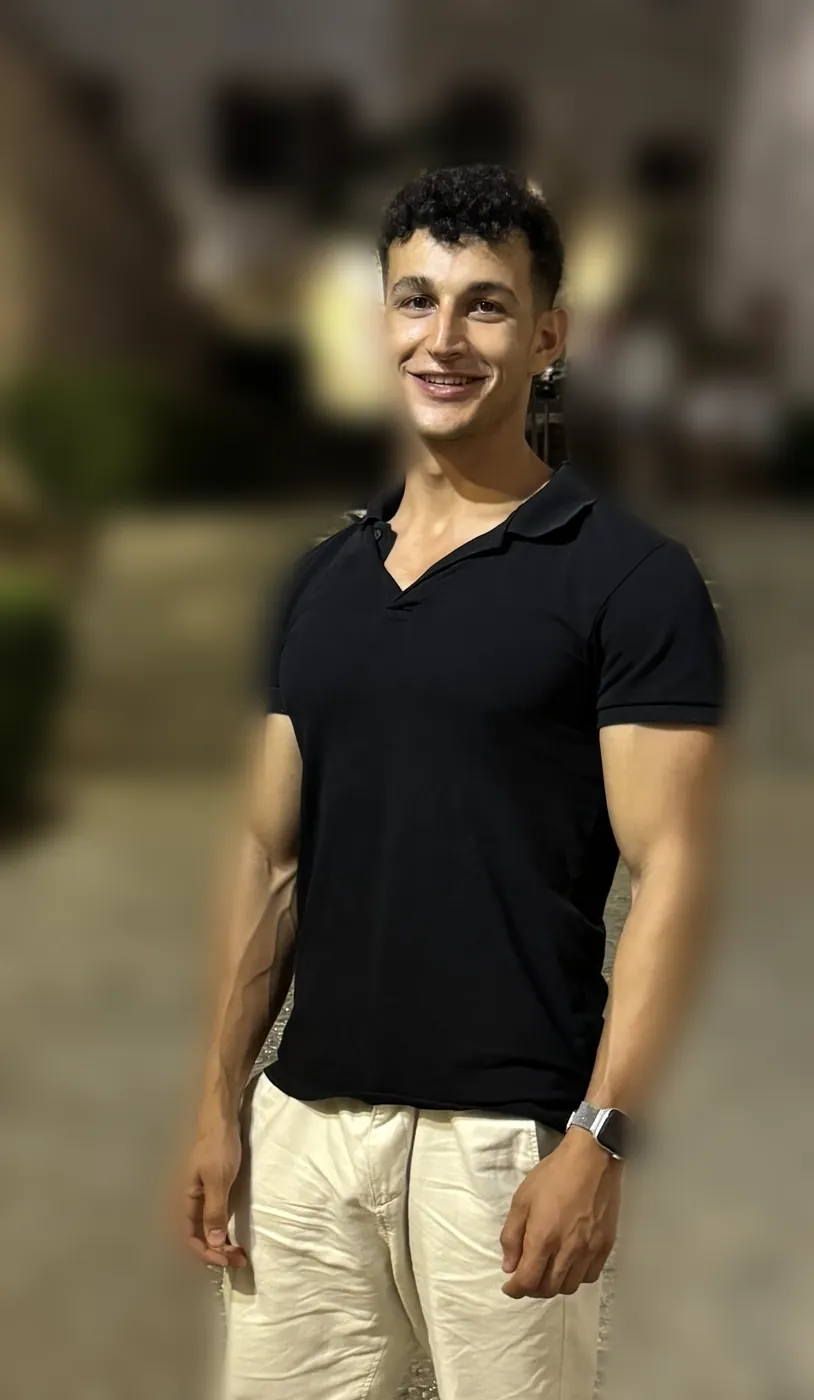
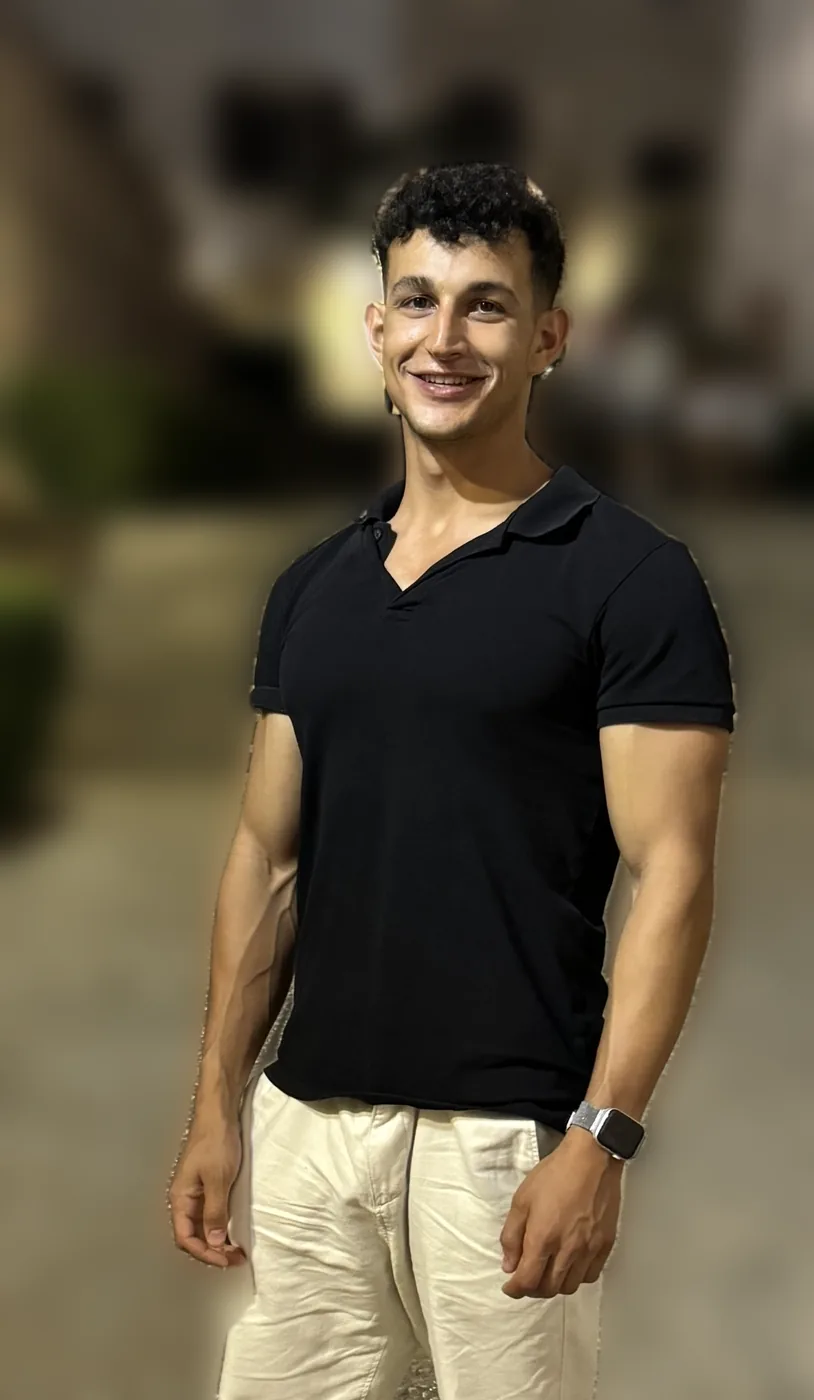
SEO/GEO: Titel, Meta, Canonical, Open Graph, Schema.org (Electrician, FAQPage), FAQ, llms.txt; Porträt sauber freigestellt
Claude-Session: https://claude.ai/code/session_01RFYJ6CRAPkTBaE4rEXmcSj

diff --git a/index.html b/index.html
@@ -3,8 +3,21 @@
 <head>
   <meta charset="utf-8">
   <meta name="viewport" content="width=device-width, initial-scale=1">
-  <title>Voltlogik UG – Elektrofachbetrieb für PV, Wärmepumpen & Elektroinstallation in Berlin & Brandenburg</title>
-  <meta name="description" content="Elektrofachbetrieb aus Oranienburg: PV-Anlagen, Speichererweiterung, Wärmepumpen-Anschluss, Anmeldung, Prüfung nach DIN VDE 0100-600 und Elektroinstallation in Berlin & Brandenburg.">
+  <title>Elektriker in Oranienburg – Wallbox, PV & Wärmepumpe | Voltlogik</title>
+  <meta name="description" content="Elektrofachbetrieb aus Oranienburg für Berlin & Brandenburg: Wallbox-Installation (11 & 22 kW), PV-Anlagen, Speicher, Wärmepumpen-Anschluss, Zählerschrank und VDE-Prüfung. Jetzt anfragen.">
+  <link rel="canonical" href="https://voltlogik.de/">
+  <meta name="robots" content="index, follow, max-image-preview:large">
+  <meta property="og:type" content="website">
+  <meta property="og:locale" content="de_DE">
+  <meta property="og:site_name" content="Voltlogik">
+  <meta property="og:title" content="Elektriker in Oranienburg – Wallbox, PV & Wärmepumpe | Voltlogik">
+  <meta property="og:description" content="Elektrofachbetrieb aus Oranienburg für Berlin & Brandenburg: Wallbox-Installation (11 & 22 kW), PV-Anlagen, Speicher, Wärmepumpen-Anschluss, Zählerschrank und VDE-Prüfung. Jetzt anfragen.">
+  <meta property="og:url" content="https://voltlogik.de/">
+  <meta property="og:image" content="https://voltlogik.de/img/fotos/foto2.webp">
+  <meta name="geo.region" content="DE-BB">
+  <meta name="geo.placename" content="Oranienburg">
+  <script type="application/ld+json">{"@context": "https://schema.org", "@type": "Electrician", "@id": "https://voltlogik.de/#betrieb", "name": "Voltlogik", "legalName": "VLT Voltlogik UG (haftungsbeschränkt)", "url": "https://voltlogik.de/", "logo": "https://voltlogik.de/img/voltlogik-logo.svg", "image": "https://voltlogik.de/img/fotos/foto2.webp", "telephone": "+4915162777020", "email": "kontakt@voltlogik.de", "slogan": "Ihr Partner für moderne Energielösungen.", "founder": {"@type": "Person", "name": "Daniel Beiersdorf", "jobTitle": "Geschäftsführer"}, "foundingDate": "2026-03", "address": {"@type": "PostalAddress", "addressLocality": "Oranienburg", "postalCode": "16515", "addressRegion": "Brandenburg", "addressCountry": "DE"}, "areaServed": [{"@type": "City", "name": "Oranienburg"}, {"@type": "City", "name": "Berlin"}, {"@type": "State", "name": "Brandenburg"}], "sameAs": ["https://www.my-hammer.de/auftragnehmer/vlt-voltlogik-ug"], "knowsAbout": ["Wallbox-Installation", "Photovoltaik", "Batteriespeicher", "Wärmepumpen-Anschluss", "Zählerschrank", "Unterverteilung", "SLS-Schalter", "Überspannungsschutz", "Prüfung nach DIN VDE 0100-600", "Elektroinstallation"], "hasOfferCatalog": {"@type": "OfferCatalog", "name": "Leistungen", "itemListElement": [{"@type": "Offer", "itemOffered": {"@type": "Service", "name": "Wallbox-Installation (11 kW & 22 kW)", "description": "Installation Ihrer E-Auto-Wallbox in 11- oder 22-kW-Ausführung. Wallboxen bis 11 kW sind beim Netzbetreiber meldepflichtig, 22-kW-Wallboxen brauchen vorher seine Zustimmung. Beides übernehmen wir für Sie."}}, {"@type": "Offer", "itemOffered": {"@type": "Service", "name": "PV-Anlagen komplett", "description": "Planung und Installation Ihrer Photovoltaikanlage, von der Montage bis zur Inbetriebnahme und Anmeldung."}}, {"@type": "Offer", "itemOffered": {"@type": "Service", "name": "PV-Teilinstallation (AC)", "description": "Sie haben die DC-Montage schon selbst erledigt? Wir übernehmen den AC-Anschluss, die Prüfung und die Anmeldung."}}, {"@type": "Offer", "itemOffered": {"@type": "Service", "name": "Speichererweiterung", "description": "Wir erweitern Ihre bestehende PV-Anlage um einen Batteriespeicher."}}, {"@type": "Offer", "itemOffered": {"@type": "Service", "name": "Wärmepumpen-Anschluss", "description": "Elektrischer Anschluss Ihrer Wärmepumpe, fachgerecht und inklusive Anmeldung beim Netzbetreiber."}}, {"@type": "Offer", "itemOffered": {"@type": "Service", "name": "Anmeldung & VDE-Prüfung", "description": "Anmeldung anmeldepflichtiger Geräte sowie Prüfung nach DIN VDE 0100-600 mit Prüfprotokoll."}}, {"@type": "Offer", "itemOffered": {"@type": "Service", "name": "Zählerschrank & Unterverteilung", "description": "Komplette Sanierung oder neuer Zählerschrank: Wir übernehmen die alten Stromkreise, setzen einen neuen Zählerschrank und nutzen den alten bei Bedarf als Unterverteilung weiter. Natürlich auch ganz normale Unterverteilungen."}}, {"@type": "Offer", "itemOffered": {"@type": "Service", "name": "SLS & Überspannungsschutz", "description": "Nachrüstung von SLS-Schaltern und Überspannungsschutz, wie es die Technischen Anschlussbedingungen (TAB) der meisten Netzbetreiber vorschreiben."}}, {"@type": "Offer", "itemOffered": {"@type": "Service", "name": "Fehlersuche & Reparaturen", "description": "Strom weg, Sicherung fliegt raus oder eine Steckdose ist defekt? Wir finden den Fehler und reparieren ihn in Ihrem Haushalt."}}, {"@type": "Offer", "itemOffered": {"@type": "Service", "name": "Elektroinstallation", "description": "Klassische Elektroarbeiten im Alt- und Neubau: Steckdosen, Leitungen, Erweiterungen und mehr."}}]}}</script>
+  <script type="application/ld+json">{"@context": "https://schema.org", "@type": "FAQPage", "mainEntity": [{"@type": "Question", "name": "In welchen Orten ist Voltlogik im Einsatz?", "acceptedAnswer": {"@type": "Answer", "text": "Wir sitzen in Oranienburg und arbeiten in Berlin und Brandenburg im Umkreis von rund 100 km, zum Beispiel in Hohen Neuendorf, Birkenwerder, Bernau bei Berlin, Panketal, Biesenthal, Kleinmachnow und Fürstenberg/Havel."}}, {"@type": "Question", "name": "Muss ich meine Wallbox beim Netzbetreiber anmelden?", "acceptedAnswer": {"@type": "Answer", "text": "Ja. Wallboxen bis 11 kW sind beim Netzbetreiber meldepflichtig. Wallboxen mit mehr als 11 kW, zum Beispiel 22 kW, brauchen vorher die Zustimmung des Netzbetreibers. Die Anmeldung übernehmen wir für Sie."}}, {"@type": "Question", "name": "Übernehmt ihr auch nur den AC-Anschluss meiner PV-Anlage?", "acceptedAnswer": {"@type": "Answer", "text": "Ja. Wenn Sie die DC-Montage selbst erledigt haben, übernehmen wir den AC-Anschluss, die Prüfung nach DIN VDE 0100-600 und die Anmeldung beim Netzbetreiber."}}, {"@type": "Question", "name": "Kann ich an meine bestehende PV-Anlage einen Speicher nachrüsten?", "acceptedAnswer": {"@type": "Answer", "text": "Ja. Wir erweitern bestehende PV-Anlagen um einen Batteriespeicher. Ob und wie das bei Ihrer Anlage geht, klären wir vorab mit Ihnen."}}, {"@type": "Question", "name": "Brauche ich einen SLS-Schalter und Überspannungsschutz?", "acceptedAnswer": {"@type": "Answer", "text": "Die Technischen Anschlussbedingungen (TAB) der meisten Netzbetreiber schreiben das vor. Ob bei Ihnen nachgerüstet werden muss, prüfen wir vor Ort."}}, {"@type": "Question", "name": "Wie stelle ich eine Anfrage?", "acceptedAnswer": {"@type": "Answer", "text": "Am einfachsten per Telefon, WhatsApp oder E-Mail an kontakt@voltlogik.de. Nennen Sie uns kurz Ort und Vorhaben und schicken Sie gerne ein paar Fotos vom Zählerschrank mit."}}]}</script>
   <link rel="stylesheet" href="css/style.css">
   <link rel="icon" href="img/favicon.svg" type="image/svg+xml">
   <link rel="preload" href="fonts/poppins-latin-800-normal.woff2" as="font" type="font/woff2" crossorigin>
@@ -36,6 +49,7 @@
 </div></div></section>
 <section><div class="wrap two"><div><span class="claim grad">Über Voltlogik</span><h2>Ihr Elektriker aus Oranienburg</h2><p>Ich bin Daniel Beiersdorf, Meister und Geschäftsführer von Voltlogik. Ich nehme mir für jeden Auftrag die Zeit, die er braucht, denn bei Strom zählen Sicherheit und Zuverlässigkeit.</p><a class="btn ghost" href="ueber-uns.html">Mehr über uns</a></div><img class="photo" src="img/fotos/foto2.webp" alt="Daniel Beiersdorf mit Werkzeugtasche am Voltlogik-Firmenwagen" width="1600" height="1018" loading="lazy"></div></section>
 <section><div class="wrap"><h2>Das sagen unsere Kunden</h2><p class="lead">Bewertungen von MyHammer.</p><div class="grid"><figure class="card review"><span class="stars" aria-label="5 von 5 Sternen">★★★★★<span class="off"></span></span><blockquote>„Entspricht einfach alle Erwartungen und hebt sich von der Masse komplett ab, hält sich an absprachen und gibt Ideen und Tipps, die er auch umsetzen kann. Für jede Angelegenheit würde ich seine Leistung jederzeit in Anspruch nehmen.“</blockquote><figcaption><strong>L., Oranienburg</strong><span>Solaranlage anschließen · Sep 2026 · via MyHammer</span></figcaption></figure><figure class="card review"><span class="stars" aria-label="5 von 5 Sternen">★★★★★<span class="off"></span></span><blockquote>„Zuverlässige Arbeit. Alle Absprachen eingehalten, klare Kommunikation, verlässlich in Terminen. Jederzeit gerne wieder!“</blockquote><figcaption><strong>V., Berlin</strong><span>Wallbox / Ladestation · Sep 2026 · via MyHammer</span></figcaption></figure><figure class="card review"><span class="stars" aria-label="5 von 5 Sternen">★★★★★<span class="off"></span></span><blockquote>„Ich bin sehr zufrieden. Daniel hat meine Erwartungen vollständig erfüllt und wird von mir sehr gerne meinem Freundeskreis empfohlen.“</blockquote><figcaption><strong>S., Biesenthal</strong><span>Wallbox / Ladestation · Apr 2026 · via MyHammer</span></figcaption></figure></div><p class="mt"><a class="btn" href="referenzen.html">Alle Bewertungen lesen</a></p></div></section>
+<section class="alt"><div class="wrap narrow"><h2>Häufige Fragen</h2><p class="lead">Kurz beantwortet.</p><details class="faq"><summary>In welchen Orten ist Voltlogik im Einsatz?</summary><p>Wir sitzen in Oranienburg und arbeiten in Berlin und Brandenburg im Umkreis von rund 100 km, zum Beispiel in Hohen Neuendorf, Birkenwerder, Bernau bei Berlin, Panketal, Biesenthal, Kleinmachnow und Fürstenberg/Havel.</p></details><details class="faq"><summary>Muss ich meine Wallbox beim Netzbetreiber anmelden?</summary><p>Ja. Wallboxen bis 11 kW sind beim Netzbetreiber meldepflichtig. Wallboxen mit mehr als 11 kW, zum Beispiel 22 kW, brauchen vorher die Zustimmung des Netzbetreibers. Die Anmeldung übernehmen wir für Sie.</p></details><details class="faq"><summary>Übernehmt ihr auch nur den AC-Anschluss meiner PV-Anlage?</summary><p>Ja. Wenn Sie die DC-Montage selbst erledigt haben, übernehmen wir den AC-Anschluss, die Prüfung nach DIN VDE 0100-600 und die Anmeldung beim Netzbetreiber.</p></details><details class="faq"><summary>Kann ich an meine bestehende PV-Anlage einen Speicher nachrüsten?</summary><p>Ja. Wir erweitern bestehende PV-Anlagen um einen Batteriespeicher. Ob und wie das bei Ihrer Anlage geht, klären wir vorab mit Ihnen.</p></details><details class="faq"><summary>Brauche ich einen SLS-Schalter und Überspannungsschutz?</summary><p>Die Technischen Anschlussbedingungen (TAB) der meisten Netzbetreiber schreiben das vor. Ob bei Ihnen nachgerüstet werden muss, prüfen wir vor Ort.</p></details><details class="faq"><summary>Wie stelle ich eine Anfrage?</summary><p>Am einfachsten per Telefon, WhatsApp oder E-Mail an kontakt@voltlogik.de. Nennen Sie uns kurz Ort und Vorhaben und schicken Sie gerne ein paar Fotos vom Zählerschrank mit.</p></details></div></section>
 <section class="contact"><div class="wrap cta-band"><div><h2>Bereit für Ihr Projekt?</h2><p class="lead">Schildern Sie uns kurz Ihr Vorhaben. Wir melden uns zeitnah.</p></div><div class="ctas"><a class="btn" href="kontakt.html">Jetzt Anfrage stellen</a><a class="btn wa" href="https://wa.me/message/XTBNEGVWKSSOC1" target="_blank" rel="noopener"><svg class="wa-ic" viewBox="0 0 32 32" aria-hidden="true"><path fill="currentColor" d="M16 3a13 13 0 0 0-11.2 19.6L3 29l6.6-1.7A13 13 0 1 0 16 3zm0 23.6a10.6 10.6 0 0 1-5.4-1.5l-.4-.2-3.9 1 1-3.8-.2-.4A10.6 10.6 0 1 1 16 26.6zm5.8-7.9c-.3-.2-1.9-.9-2.2-1s-.5-.2-.7.2-.8 1-1 1.2-.4.2-.7.1a8.7 8.7 0 0 1-4.3-3.8c-.3-.6.3-.5.9-1.7.1-.2 0-.4 0-.5l-1-2.4c-.3-.6-.5-.5-.7-.5h-.6a1.2 1.2 0 0 0-.9.4 3.6 3.6 0 0 0-1.1 2.7 6.3 6.3 0 0 0 1.3 3.3 14.4 14.4 0 0 0 5.5 4.9c2 .9 2.9 1 3.9.8a3.3 3.3 0 0 0 2.2-1.5 2.7 2.7 0 0 0 .2-1.5c-.1-.2-.3-.3-.6-.4z"/></svg>Per WhatsApp schreiben</a></div></div></section>
 </main>
 <footer>

diff --git a/leistungen.html b/leistungen.html
@@ -3,8 +3,20 @@
 <head>
   <meta charset="utf-8">
   <meta name="viewport" content="width=device-width, initial-scale=1">
-  <title>Leistungen – Voltlogik UG</title>
-  <meta name="description" content="PV-Anlagen, AC-Teilinstallation, Speichererweiterung, Wärmepumpen-Anschluss, Anmeldung, VDE-Prüfung und Elektroinstallation in Berlin & Brandenburg.">
+  <title>Leistungen: Wallbox, PV, Speicher, Wärmepumpe & Zählerschrank | Voltlogik Oranienburg</title>
+  <meta name="description" content="Wallbox-Installation 11 & 22 kW, PV-Anlagen, AC-Teilinstallation, Speicher, Wärmepumpen-Anschluss, Zählerschrank, SLS & Überspannungsschutz, Fehlersuche und Elektroinstallation in Oranienburg, Berlin & Brandenburg.">
+  <link rel="canonical" href="https://voltlogik.de/leistungen.html">
+  <meta name="robots" content="index, follow, max-image-preview:large">
+  <meta property="og:type" content="website">
+  <meta property="og:locale" content="de_DE">
+  <meta property="og:site_name" content="Voltlogik">
+  <meta property="og:title" content="Leistungen: Wallbox, PV, Speicher, Wärmepumpe & Zählerschrank | Voltlogik Oranienburg">
+  <meta property="og:description" content="Wallbox-Installation 11 & 22 kW, PV-Anlagen, AC-Teilinstallation, Speicher, Wärmepumpen-Anschluss, Zählerschrank, SLS & Überspannungsschutz, Fehlersuche und Elektroinstallation in Oranienburg, Berlin & Brandenburg.">
+  <meta property="og:url" content="https://voltlogik.de/leistungen.html">
+  <meta property="og:image" content="https://voltlogik.de/img/fotos/foto2.webp">
+  <meta name="geo.region" content="DE-BB">
+  <meta name="geo.placename" content="Oranienburg">
+  <script type="application/ld+json">{"@context": "https://schema.org", "@type": "Electrician", "@id": "https://voltlogik.de/#betrieb", "name": "Voltlogik", "legalName": "VLT Voltlogik UG (haftungsbeschränkt)", "url": "https://voltlogik.de/", "logo": "https://voltlogik.de/img/voltlogik-logo.svg", "image": "https://voltlogik.de/img/fotos/foto2.webp", "telephone": "+4915162777020", "email": "kontakt@voltlogik.de", "slogan": "Ihr Partner für moderne Energielösungen.", "founder": {"@type": "Person", "name": "Daniel Beiersdorf", "jobTitle": "Geschäftsführer"}, "foundingDate": "2026-03", "address": {"@type": "PostalAddress", "addressLocality": "Oranienburg", "postalCode": "16515", "addressRegion": "Brandenburg", "addressCountry": "DE"}, "areaServed": [{"@type": "City", "name": "Oranienburg"}, {"@type": "City", "name": "Berlin"}, {"@type": "State", "name": "Brandenburg"}], "sameAs": ["https://www.my-hammer.de/auftragnehmer/vlt-voltlogik-ug"], "knowsAbout": ["Wallbox-Installation", "Photovoltaik", "Batteriespeicher", "Wärmepumpen-Anschluss", "Zählerschrank", "Unterverteilung", "SLS-Schalter", "Überspannungsschutz", "Prüfung nach DIN VDE 0100-600", "Elektroinstallation"], "hasOfferCatalog": {"@type": "OfferCatalog", "name": "Leistungen", "itemListElement": [{"@type": "Offer", "itemOffered": {"@type": "Service", "name": "Wallbox-Installation (11 kW & 22 kW)", "description": "Installation Ihrer E-Auto-Wallbox in 11- oder 22-kW-Ausführung. Wallboxen bis 11 kW sind beim Netzbetreiber meldepflichtig, 22-kW-Wallboxen brauchen vorher seine Zustimmung. Beides übernehmen wir für Sie."}}, {"@type": "Offer", "itemOffered": {"@type": "Service", "name": "PV-Anlagen komplett", "description": "Planung und Installation Ihrer Photovoltaikanlage, von der Montage bis zur Inbetriebnahme und Anmeldung."}}, {"@type": "Offer", "itemOffered": {"@type": "Service", "name": "PV-Teilinstallation (AC)", "description": "Sie haben die DC-Montage schon selbst erledigt? Wir übernehmen den AC-Anschluss, die Prüfung und die Anmeldung."}}, {"@type": "Offer", "itemOffered": {"@type": "Service", "name": "Speichererweiterung", "description": "Wir erweitern Ihre bestehende PV-Anlage um einen Batteriespeicher."}}, {"@type": "Offer", "itemOffered": {"@type": "Service", "name": "Wärmepumpen-Anschluss", "description": "Elektrischer Anschluss Ihrer Wärmepumpe, fachgerecht und inklusive Anmeldung beim Netzbetreiber."}}, {"@type": "Offer", "itemOffered": {"@type": "Service", "name": "Anmeldung & VDE-Prüfung", "description": "Anmeldung anmeldepflichtiger Geräte sowie Prüfung nach DIN VDE 0100-600 mit Prüfprotokoll."}}, {"@type": "Offer", "itemOffered": {"@type": "Service", "name": "Zählerschrank & Unterverteilung", "description": "Komplette Sanierung oder neuer Zählerschrank: Wir übernehmen die alten Stromkreise, setzen einen neuen Zählerschrank und nutzen den alten bei Bedarf als Unterverteilung weiter. Natürlich auch ganz normale Unterverteilungen."}}, {"@type": "Offer", "itemOffered": {"@type": "Service", "name": "SLS & Überspannungsschutz", "description": "Nachrüstung von SLS-Schaltern und Überspannungsschutz, wie es die Technischen Anschlussbedingungen (TAB) der meisten Netzbetreiber vorschreiben."}}, {"@type": "Offer", "itemOffered": {"@type": "Service", "name": "Fehlersuche & Reparaturen", "description": "Strom weg, Sicherung fliegt raus oder eine Steckdose ist defekt? Wir finden den Fehler und reparieren ihn in Ihrem Haushalt."}}, {"@type": "Offer", "itemOffered": {"@type": "Service", "name": "Elektroinstallation", "description": "Klassische Elektroarbeiten im Alt- und Neubau: Steckdosen, Leitungen, Erweiterungen und mehr."}}]}}</script>
   <link rel="stylesheet" href="css/style.css">
   <link rel="icon" href="img/favicon.svg" type="image/svg+xml">
   <link rel="preload" href="fonts/poppins-latin-800-normal.woff2" as="font" type="font/woff2" crossorigin>

diff --git a/kontakt.html b/kontakt.html
@@ -3,8 +3,20 @@
 <head>
   <meta charset="utf-8">
   <meta name="viewport" content="width=device-width, initial-scale=1">
-  <title>Kontakt – Voltlogik UG</title>
-  <meta name="description" content="Kontakt zu Voltlogik UG in Oranienburg: Anfrage für PV, Speicher, Wärmepumpe oder Elektroinstallation.">
+  <title>Kontakt – Elektriker in Oranienburg anfragen | Voltlogik</title>
+  <meta name="description" content="Jetzt Voltlogik in Oranienburg anfragen: per Telefon, WhatsApp oder E-Mail. Wallbox, PV, Speicher, Wärmepumpe und Elektroinstallation in Berlin & Brandenburg.">
+  <link rel="canonical" href="https://voltlogik.de/kontakt.html">
+  <meta name="robots" content="index, follow, max-image-preview:large">
+  <meta property="og:type" content="website">
+  <meta property="og:locale" content="de_DE">
+  <meta property="og:site_name" content="Voltlogik">
+  <meta property="og:title" content="Kontakt – Elektriker in Oranienburg anfragen | Voltlogik">
+  <meta property="og:description" content="Jetzt Voltlogik in Oranienburg anfragen: per Telefon, WhatsApp oder E-Mail. Wallbox, PV, Speicher, Wärmepumpe und Elektroinstallation in Berlin & Brandenburg.">
+  <meta property="og:url" content="https://voltlogik.de/kontakt.html">
+  <meta property="og:image" content="https://voltlogik.de/img/fotos/foto2.webp">
+  <meta name="geo.region" content="DE-BB">
+  <meta name="geo.placename" content="Oranienburg">
+  <script type="application/ld+json">{"@context": "https://schema.org", "@type": "Electrician", "@id": "https://voltlogik.de/#betrieb", "name": "Voltlogik", "legalName": "VLT Voltlogik UG (haftungsbeschränkt)", "url": "https://voltlogik.de/", "logo": "https://voltlogik.de/img/voltlogik-logo.svg", "image": "https://voltlogik.de/img/fotos/foto2.webp", "telephone": "+4915162777020", "email": "kontakt@voltlogik.de", "slogan": "Ihr Partner für moderne Energielösungen.", "founder": {"@type": "Person", "name": "Daniel Beiersdorf", "jobTitle": "Geschäftsführer"}, "foundingDate": "2026-03", "address": {"@type": "PostalAddress", "addressLocality": "Oranienburg", "postalCode": "16515", "addressRegion": "Brandenburg", "addressCountry": "DE"}, "areaServed": [{"@type": "City", "name": "Oranienburg"}, {"@type": "City", "name": "Berlin"}, {"@type": "State", "name": "Brandenburg"}], "sameAs": ["https://www.my-hammer.de/auftragnehmer/vlt-voltlogik-ug"], "knowsAbout": ["Wallbox-Installation", "Photovoltaik", "Batteriespeicher", "Wärmepumpen-Anschluss", "Zählerschrank", "Unterverteilung", "SLS-Schalter", "Überspannungsschutz", "Prüfung nach DIN VDE 0100-600", "Elektroinstallation"], "hasOfferCatalog": {"@type": "OfferCatalog", "name": "Leistungen", "itemListElement": [{"@type": "Offer", "itemOffered": {"@type": "Service", "name": "Wallbox-Installation (11 kW & 22 kW)", "description": "Installation Ihrer E-Auto-Wallbox in 11- oder 22-kW-Ausführung. Wallboxen bis 11 kW sind beim Netzbetreiber meldepflichtig, 22-kW-Wallboxen brauchen vorher seine Zustimmung. Beides übernehmen wir für Sie."}}, {"@type": "Offer", "itemOffered": {"@type": "Service", "name": "PV-Anlagen komplett", "description": "Planung und Installation Ihrer Photovoltaikanlage, von der Montage bis zur Inbetriebnahme und Anmeldung."}}, {"@type": "Offer", "itemOffered": {"@type": "Service", "name": "PV-Teilinstallation (AC)", "description": "Sie haben die DC-Montage schon selbst erledigt? Wir übernehmen den AC-Anschluss, die Prüfung und die Anmeldung."}}, {"@type": "Offer", "itemOffered": {"@type": "Service", "name": "Speichererweiterung", "description": "Wir erweitern Ihre bestehende PV-Anlage um einen Batteriespeicher."}}, {"@type": "Offer", "itemOffered": {"@type": "Service", "name": "Wärmepumpen-Anschluss", "description": "Elektrischer Anschluss Ihrer Wärmepumpe, fachgerecht und inklusive Anmeldung beim Netzbetreiber."}}, {"@type": "Offer", "itemOffered": {"@type": "Service", "name": "Anmeldung & VDE-Prüfung", "description": "Anmeldung anmeldepflichtiger Geräte sowie Prüfung nach DIN VDE 0100-600 mit Prüfprotokoll."}}, {"@type": "Offer", "itemOffered": {"@type": "Service", "name": "Zählerschrank & Unterverteilung", "description": "Komplette Sanierung oder neuer Zählerschrank: Wir übernehmen die alten Stromkreise, setzen einen neuen Zählerschrank und nutzen den alten bei Bedarf als Unterverteilung weiter. Natürlich auch ganz normale Unterverteilungen."}}, {"@type": "Offer", "itemOffered": {"@type": "Service", "name": "SLS & Überspannungsschutz", "description": "Nachrüstung von SLS-Schaltern und Überspannungsschutz, wie es die Technischen Anschlussbedingungen (TAB) der meisten Netzbetreiber vorschreiben."}}, {"@type": "Offer", "itemOffered": {"@type": "Service", "name": "Fehlersuche & Reparaturen", "description": "Strom weg, Sicherung fliegt raus oder eine Steckdose ist defekt? Wir finden den Fehler und reparieren ihn in Ihrem Haushalt."}}, {"@type": "Offer", "itemOffered": {"@type": "Service", "name": "Elektroinstallation", "description": "Klassische Elektroarbeiten im Alt- und Neubau: Steckdosen, Leitungen, Erweiterungen und mehr."}}]}}</script>
   <link rel="stylesheet" href="css/style.css">
   <link rel="icon" href="img/favicon.svg" type="image/svg+xml">
   <link rel="preload" href="fonts/poppins-latin-800-normal.woff2" as="font" type="font/woff2" crossorigin>

diff --git a/referenzen.html b/referenzen.html
@@ -3,8 +3,20 @@
 <head>
   <meta charset="utf-8">
   <meta name="viewport" content="width=device-width, initial-scale=1">
-  <title>Referenzen – Voltlogik UG</title>
-  <meta name="description" content="Ausgewählte Projekte von Voltlogik UG: PV-Anlagen, Speicher, Wärmepumpen und Elektroinstallation.">
+  <title>Referenzen & Kundenbewertungen | Voltlogik Elektriker Oranienburg</title>
+  <meta name="description" content="Echte Kundenbewertungen und Projekte von Voltlogik: Wallboxen, PV-Anlagen, Speicher, Wärmepumpen und Zählerschränke in Berlin und Brandenburg.">
+  <link rel="canonical" href="https://voltlogik.de/referenzen.html">
+  <meta name="robots" content="index, follow, max-image-preview:large">
+  <meta property="og:type" content="website">
+  <meta property="og:locale" content="de_DE">
+  <meta property="og:site_name" content="Voltlogik">
+  <meta property="og:title" content="Referenzen & Kundenbewertungen | Voltlogik Elektriker Oranienburg">
+  <meta property="og:description" content="Echte Kundenbewertungen und Projekte von Voltlogik: Wallboxen, PV-Anlagen, Speicher, Wärmepumpen und Zählerschränke in Berlin und Brandenburg.">
+  <meta property="og:url" content="https://voltlogik.de/referenzen.html">
+  <meta property="og:image" content="https://voltlogik.de/img/fotos/foto2.webp">
+  <meta name="geo.region" content="DE-BB">
+  <meta name="geo.placename" content="Oranienburg">
+  <script type="application/ld+json">{"@context": "https://schema.org", "@type": "Electrician", "@id": "https://voltlogik.de/#betrieb", "name": "Voltlogik", "legalName": "VLT Voltlogik UG (haftungsbeschränkt)", "url": "https://voltlogik.de/", "logo": "https://voltlogik.de/img/voltlogik-logo.svg", "image": "https://voltlogik.de/img/fotos/foto2.webp", "telephone": "+4915162777020", "email": "kontakt@voltlogik.de", "slogan": "Ihr Partner für moderne Energielösungen.", "founder": {"@type": "Person", "name": "Daniel Beiersdorf", "jobTitle": "Geschäftsführer"}, "foundingDate": "2026-03", "address": {"@type": "PostalAddress", "addressLocality": "Oranienburg", "postalCode": "16515", "addressRegion": "Brandenburg", "addressCountry": "DE"}, "areaServed": [{"@type": "City", "name": "Oranienburg"}, {"@type": "City", "name": "Berlin"}, {"@type": "State", "name": "Brandenburg"}], "sameAs": ["https://www.my-hammer.de/auftragnehmer/vlt-voltlogik-ug"], "knowsAbout": ["Wallbox-Installation", "Photovoltaik", "Batteriespeicher", "Wärmepumpen-Anschluss", "Zählerschrank", "Unterverteilung", "SLS-Schalter", "Überspannungsschutz", "Prüfung nach DIN VDE 0100-600", "Elektroinstallation"], "hasOfferCatalog": {"@type": "OfferCatalog", "name": "Leistungen", "itemListElement": [{"@type": "Offer", "itemOffered": {"@type": "Service", "name": "Wallbox-Installation (11 kW & 22 kW)", "description": "Installation Ihrer E-Auto-Wallbox in 11- oder 22-kW-Ausführung. Wallboxen bis 11 kW sind beim Netzbetreiber meldepflichtig, 22-kW-Wallboxen brauchen vorher seine Zustimmung. Beides übernehmen wir für Sie."}}, {"@type": "Offer", "itemOffered": {"@type": "Service", "name": "PV-Anlagen komplett", "description": "Planung und Installation Ihrer Photovoltaikanlage, von der Montage bis zur Inbetriebnahme und Anmeldung."}}, {"@type": "Offer", "itemOffered": {"@type": "Service", "name": "PV-Teilinstallation (AC)", "description": "Sie haben die DC-Montage schon selbst erledigt? Wir übernehmen den AC-Anschluss, die Prüfung und die Anmeldung."}}, {"@type": "Offer", "itemOffered": {"@type": "Service", "name": "Speichererweiterung", "description": "Wir erweitern Ihre bestehende PV-Anlage um einen Batteriespeicher."}}, {"@type": "Offer", "itemOffered": {"@type": "Service", "name": "Wärmepumpen-Anschluss", "description": "Elektrischer Anschluss Ihrer Wärmepumpe, fachgerecht und inklusive Anmeldung beim Netzbetreiber."}}, {"@type": "Offer", "itemOffered": {"@type": "Service", "name": "Anmeldung & VDE-Prüfung", "description": "Anmeldung anmeldepflichtiger Geräte sowie Prüfung nach DIN VDE 0100-600 mit Prüfprotokoll."}}, {"@type": "Offer", "itemOffered": {"@type": "Service", "name": "Zählerschrank & Unterverteilung", "description": "Komplette Sanierung oder neuer Zählerschrank: Wir übernehmen die alten Stromkreise, setzen einen neuen Zählerschrank und nutzen den alten bei Bedarf als Unterverteilung weiter. Natürlich auch ganz normale Unterverteilungen."}}, {"@type": "Offer", "itemOffered": {"@type": "Service", "name": "SLS & Überspannungsschutz", "description": "Nachrüstung von SLS-Schaltern und Überspannungsschutz, wie es die Technischen Anschlussbedingungen (TAB) der meisten Netzbetreiber vorschreiben."}}, {"@type": "Offer", "itemOffered": {"@type": "Service", "name": "Fehlersuche & Reparaturen", "description": "Strom weg, Sicherung fliegt raus oder eine Steckdose ist defekt? Wir finden den Fehler und reparieren ihn in Ihrem Haushalt."}}, {"@type": "Offer", "itemOffered": {"@type": "Service", "name": "Elektroinstallation", "description": "Klassische Elektroarbeiten im Alt- und Neubau: Steckdosen, Leitungen, Erweiterungen und mehr."}}]}}</script>
   <link rel="stylesheet" href="css/style.css">
   <link rel="icon" href="img/favicon.svg" type="image/svg+xml">
   <link rel="preload" href="fonts/poppins-latin-800-normal.woff2" as="font" type="font/woff2" crossorigin>

diff --git a/ueber-uns.html b/ueber-uns.html
@@ -3,8 +3,20 @@
 <head>
   <meta charset="utf-8">
   <meta name="viewport" content="width=device-width, initial-scale=1">
-  <title>Über uns – Voltlogik UG</title>
+  <title>Über Voltlogik – Daniel Beiersdorf, Elektriker aus Oranienburg</title>
   <meta name="description" content="Daniel Beiersdorf, Meister und Geschäftsführer der Voltlogik UG aus Oranienburg: Elektrotechnik mit Qualität, Sicherheit und Zeit für jeden Kunden.">
+  <link rel="canonical" href="https://voltlogik.de/ueber-uns.html">
+  <meta name="robots" content="index, follow, max-image-preview:large">
+  <meta property="og:type" content="website">
+  <meta property="og:locale" content="de_DE">
+  <meta property="og:site_name" content="Voltlogik">
+  <meta property="og:title" content="Über Voltlogik – Daniel Beiersdorf, Elektriker aus Oranienburg">
+  <meta property="og:description" content="Daniel Beiersdorf, Meister und Geschäftsführer der Voltlogik UG aus Oranienburg: Elektrotechnik mit Qualität, Sicherheit und Zeit für jeden Kunden.">
+  <meta property="og:url" content="https://voltlogik.de/ueber-uns.html">
+  <meta property="og:image" content="https://voltlogik.de/img/fotos/foto2.webp">
+  <meta name="geo.region" content="DE-BB">
+  <meta name="geo.placename" content="Oranienburg">
+  <script type="application/ld+json">{"@context": "https://schema.org", "@type": "Electrician", "@id": "https://voltlogik.de/#betrieb", "name": "Voltlogik", "legalName": "VLT Voltlogik UG (haftungsbeschränkt)", "url": "https://voltlogik.de/", "logo": "https://voltlogik.de/img/voltlogik-logo.svg", "image": "https://voltlogik.de/img/fotos/foto2.webp", "telephone": "+4915162777020", "email": "kontakt@voltlogik.de", "slogan": "Ihr Partner für moderne Energielösungen.", "founder": {"@type": "Person", "name": "Daniel Beiersdorf", "jobTitle": "Geschäftsführer"}, "foundingDate": "2026-03", "address": {"@type": "PostalAddress", "addressLocality": "Oranienburg", "postalCode": "16515", "addressRegion": "Brandenburg", "addressCountry": "DE"}, "areaServed": [{"@type": "City", "name": "Oranienburg"}, {"@type": "City", "name": "Berlin"}, {"@type": "State", "name": "Brandenburg"}], "sameAs": ["https://www.my-hammer.de/auftragnehmer/vlt-voltlogik-ug"], "knowsAbout": ["Wallbox-Installation", "Photovoltaik", "Batteriespeicher", "Wärmepumpen-Anschluss", "Zählerschrank", "Unterverteilung", "SLS-Schalter", "Überspannungsschutz", "Prüfung nach DIN VDE 0100-600", "Elektroinstallation"], "hasOfferCatalog": {"@type": "OfferCatalog", "name": "Leistungen", "itemListElement": [{"@type": "Offer", "itemOffered": {"@type": "Service", "name": "Wallbox-Installation (11 kW & 22 kW)", "description": "Installation Ihrer E-Auto-Wallbox in 11- oder 22-kW-Ausführung. Wallboxen bis 11 kW sind beim Netzbetreiber meldepflichtig, 22-kW-Wallboxen brauchen vorher seine Zustimmung. Beides übernehmen wir für Sie."}}, {"@type": "Offer", "itemOffered": {"@type": "Service", "name": "PV-Anlagen komplett", "description": "Planung und Installation Ihrer Photovoltaikanlage, von der Montage bis zur Inbetriebnahme und Anmeldung."}}, {"@type": "Offer", "itemOffered": {"@type": "Service", "name": "PV-Teilinstallation (AC)", "description": "Sie haben die DC-Montage schon selbst erledigt? Wir übernehmen den AC-Anschluss, die Prüfung und die Anmeldung."}}, {"@type": "Offer", "itemOffered": {"@type": "Service", "name": "Speichererweiterung", "description": "Wir erweitern Ihre bestehende PV-Anlage um einen Batteriespeicher."}}, {"@type": "Offer", "itemOffered": {"@type": "Service", "name": "Wärmepumpen-Anschluss", "description": "Elektrischer Anschluss Ihrer Wärmepumpe, fachgerecht und inklusive Anmeldung beim Netzbetreiber."}}, {"@type": "Offer", "itemOffered": {"@type": "Service", "name": "Anmeldung & VDE-Prüfung", "description": "Anmeldung anmeldepflichtiger Geräte sowie Prüfung nach DIN VDE 0100-600 mit Prüfprotokoll."}}, {"@type": "Offer", "itemOffered": {"@type": "Service", "name": "Zählerschrank & Unterverteilung", "description": "Komplette Sanierung oder neuer Zählerschrank: Wir übernehmen die alten Stromkreise, setzen einen neuen Zählerschrank und nutzen den alten bei Bedarf als Unterverteilung weiter. Natürlich auch ganz normale Unterverteilungen."}}, {"@type": "Offer", "itemOffered": {"@type": "Service", "name": "SLS & Überspannungsschutz", "description": "Nachrüstung von SLS-Schaltern und Überspannungsschutz, wie es die Technischen Anschlussbedingungen (TAB) der meisten Netzbetreiber vorschreiben."}}, {"@type": "Offer", "itemOffered": {"@type": "Service", "name": "Fehlersuche & Reparaturen", "description": "Strom weg, Sicherung fliegt raus oder eine Steckdose ist defekt? Wir finden den Fehler und reparieren ihn in Ihrem Haushalt."}}, {"@type": "Offer", "itemOffered": {"@type": "Service", "name": "Elektroinstallation", "description": "Klassische Elektroarbeiten im Alt- und Neubau: Steckdosen, Leitungen, Erweiterungen und mehr."}}]}}</script>
   <link rel="stylesheet" href="css/style.css">
   <link rel="icon" href="img/favicon.svg" type="image/svg+xml">
   <link rel="preload" href="fonts/poppins-latin-800-normal.woff2" as="font" type="font/woff2" crossorigin>

diff --git a/datenschutz.html b/datenschutz.html
@@ -3,8 +3,20 @@
 <head>
   <meta charset="utf-8">
   <meta name="viewport" content="width=device-width, initial-scale=1">
-  <title>Datenschutzerklärung – Voltlogik</title>
+  <title>Datenschutzerklärung | Voltlogik</title>
   <meta name="description" content="Datenschutzerklärung der VLT Voltlogik UG (haftungsbeschränkt).">
+  <link rel="canonical" href="https://voltlogik.de/datenschutz.html">
+  <meta name="robots" content="noindex, follow">
+  <meta property="og:type" content="website">
+  <meta property="og:locale" content="de_DE">
+  <meta property="og:site_name" content="Voltlogik">
+  <meta property="og:title" content="Datenschutzerklärung | Voltlogik">
+  <meta property="og:description" content="Datenschutzerklärung der VLT Voltlogik UG (haftungsbeschränkt).">
+  <meta property="og:url" content="https://voltlogik.de/datenschutz.html">
+  <meta property="og:image" content="https://voltlogik.de/img/fotos/foto2.webp">
+  <meta name="geo.region" content="DE-BB">
+  <meta name="geo.placename" content="Oranienburg">
+  <script type="application/ld+json">{"@context": "https://schema.org", "@type": "Electrician", "@id": "https://voltlogik.de/#betrieb", "name": "Voltlogik", "legalName": "VLT Voltlogik UG (haftungsbeschränkt)", "url": "https://voltlogik.de/", "logo": "https://voltlogik.de/img/voltlogik-logo.svg", "image": "https://voltlogik.de/img/fotos/foto2.webp", "telephone": "+4915162777020", "email": "kontakt@voltlogik.de", "slogan": "Ihr Partner für moderne Energielösungen.", "founder": {"@type": "Person", "name": "Daniel Beiersdorf", "jobTitle": "Geschäftsführer"}, "foundingDate": "2026-03", "address": {"@type": "PostalAddress", "addressLocality": "Oranienburg", "postalCode": "16515", "addressRegion": "Brandenburg", "addressCountry": "DE"}, "areaServed": [{"@type": "City", "name": "Oranienburg"}, {"@type": "City", "name": "Berlin"}, {"@type": "State", "name": "Brandenburg"}], "sameAs": ["https://www.my-hammer.de/auftragnehmer/vlt-voltlogik-ug"], "knowsAbout": ["Wallbox-Installation", "Photovoltaik", "Batteriespeicher", "Wärmepumpen-Anschluss", "Zählerschrank", "Unterverteilung", "SLS-Schalter", "Überspannungsschutz", "Prüfung nach DIN VDE 0100-600", "Elektroinstallation"], "hasOfferCatalog": {"@type": "OfferCatalog", "name": "Leistungen", "itemListElement": [{"@type": "Offer", "itemOffered": {"@type": "Service", "name": "Wallbox-Installation (11 kW & 22 kW)", "description": "Installation Ihrer E-Auto-Wallbox in 11- oder 22-kW-Ausführung. Wallboxen bis 11 kW sind beim Netzbetreiber meldepflichtig, 22-kW-Wallboxen brauchen vorher seine Zustimmung. Beides übernehmen wir für Sie."}}, {"@type": "Offer", "itemOffered": {"@type": "Service", "name": "PV-Anlagen komplett", "description": "Planung und Installation Ihrer Photovoltaikanlage, von der Montage bis zur Inbetriebnahme und Anmeldung."}}, {"@type": "Offer", "itemOffered": {"@type": "Service", "name": "PV-Teilinstallation (AC)", "description": "Sie haben die DC-Montage schon selbst erledigt? Wir übernehmen den AC-Anschluss, die Prüfung und die Anmeldung."}}, {"@type": "Offer", "itemOffered": {"@type": "Service", "name": "Speichererweiterung", "description": "Wir erweitern Ihre bestehende PV-Anlage um einen Batteriespeicher."}}, {"@type": "Offer", "itemOffered": {"@type": "Service", "name": "Wärmepumpen-Anschluss", "description": "Elektrischer Anschluss Ihrer Wärmepumpe, fachgerecht und inklusive Anmeldung beim Netzbetreiber."}}, {"@type": "Offer", "itemOffered": {"@type": "Service", "name": "Anmeldung & VDE-Prüfung", "description": "Anmeldung anmeldepflichtiger Geräte sowie Prüfung nach DIN VDE 0100-600 mit Prüfprotokoll."}}, {"@type": "Offer", "itemOffered": {"@type": "Service", "name": "Zählerschrank & Unterverteilung", "description": "Komplette Sanierung oder neuer Zählerschrank: Wir übernehmen die alten Stromkreise, setzen einen neuen Zählerschrank und nutzen den alten bei Bedarf als Unterverteilung weiter. Natürlich auch ganz normale Unterverteilungen."}}, {"@type": "Offer", "itemOffered": {"@type": "Service", "name": "SLS & Überspannungsschutz", "description": "Nachrüstung von SLS-Schaltern und Überspannungsschutz, wie es die Technischen Anschlussbedingungen (TAB) der meisten Netzbetreiber vorschreiben."}}, {"@type": "Offer", "itemOffered": {"@type": "Service", "name": "Fehlersuche & Reparaturen", "description": "Strom weg, Sicherung fliegt raus oder eine Steckdose ist defekt? Wir finden den Fehler und reparieren ihn in Ihrem Haushalt."}}, {"@type": "Offer", "itemOffered": {"@type": "Service", "name": "Elektroinstallation", "description": "Klassische Elektroarbeiten im Alt- und Neubau: Steckdosen, Leitungen, Erweiterungen und mehr."}}]}}</script>
   <link rel="stylesheet" href="css/style.css">
   <link rel="icon" href="img/favicon.svg" type="image/svg+xml">
   <link rel="preload" href="fonts/poppins-latin-800-normal.woff2" as="font" type="font/woff2" crossorigin>

diff --git a/impressum.html b/impressum.html
@@ -3,8 +3,20 @@
 <head>
   <meta charset="utf-8">
   <meta name="viewport" content="width=device-width, initial-scale=1">
-  <title>Impressum – Voltlogik UG</title>
+  <title>Impressum | Voltlogik</title>
   <meta name="description" content="Impressum der VLT Voltlogik UG (haftungsbeschränkt).">
+  <link rel="canonical" href="https://voltlogik.de/impressum.html">
+  <meta name="robots" content="noindex, follow">
+  <meta property="og:type" content="website">
+  <meta property="og:locale" content="de_DE">
+  <meta property="og:site_name" content="Voltlogik">
+  <meta property="og:title" content="Impressum | Voltlogik">
+  <meta property="og:description" content="Impressum der VLT Voltlogik UG (haftungsbeschränkt).">
+  <meta property="og:url" content="https://voltlogik.de/impressum.html">
+  <meta property="og:image" content="https://voltlogik.de/img/fotos/foto2.webp">
+  <meta name="geo.region" content="DE-BB">
+  <meta name="geo.placename" content="Oranienburg">
+  <script type="application/ld+json">{"@context": "https://schema.org", "@type": "Electrician", "@id": "https://voltlogik.de/#betrieb", "name": "Voltlogik", "legalName": "VLT Voltlogik UG (haftungsbeschränkt)", "url": "https://voltlogik.de/", "logo": "https://voltlogik.de/img/voltlogik-logo.svg", "image": "https://voltlogik.de/img/fotos/foto2.webp", "telephone": "+4915162777020", "email": "kontakt@voltlogik.de", "slogan": "Ihr Partner für moderne Energielösungen.", "founder": {"@type": "Person", "name": "Daniel Beiersdorf", "jobTitle": "Geschäftsführer"}, "foundingDate": "2026-03", "address": {"@type": "PostalAddress", "addressLocality": "Oranienburg", "postalCode": "16515", "addressRegion": "Brandenburg", "addressCountry": "DE"}, "areaServed": [{"@type": "City", "name": "Oranienburg"}, {"@type": "City", "name": "Berlin"}, {"@type": "State", "name": "Brandenburg"}], "sameAs": ["https://www.my-hammer.de/auftragnehmer/vlt-voltlogik-ug"], "knowsAbout": ["Wallbox-Installation", "Photovoltaik", "Batteriespeicher", "Wärmepumpen-Anschluss", "Zählerschrank", "Unterverteilung", "SLS-Schalter", "Überspannungsschutz", "Prüfung nach DIN VDE 0100-600", "Elektroinstallation"], "hasOfferCatalog": {"@type": "OfferCatalog", "name": "Leistungen", "itemListElement": [{"@type": "Offer", "itemOffered": {"@type": "Service", "name": "Wallbox-Installation (11 kW & 22 kW)", "description": "Installation Ihrer E-Auto-Wallbox in 11- oder 22-kW-Ausführung. Wallboxen bis 11 kW sind beim Netzbetreiber meldepflichtig, 22-kW-Wallboxen brauchen vorher seine Zustimmung. Beides übernehmen wir für Sie."}}, {"@type": "Offer", "itemOffered": {"@type": "Service", "name": "PV-Anlagen komplett", "description": "Planung und Installation Ihrer Photovoltaikanlage, von der Montage bis zur Inbetriebnahme und Anmeldung."}}, {"@type": "Offer", "itemOffered": {"@type": "Service", "name": "PV-Teilinstallation (AC)", "description": "Sie haben die DC-Montage schon selbst erledigt? Wir übernehmen den AC-Anschluss, die Prüfung und die Anmeldung."}}, {"@type": "Offer", "itemOffered": {"@type": "Service", "name": "Speichererweiterung", "description": "Wir erweitern Ihre bestehende PV-Anlage um einen Batteriespeicher."}}, {"@type": "Offer", "itemOffered": {"@type": "Service", "name": "Wärmepumpen-Anschluss", "description": "Elektrischer Anschluss Ihrer Wärmepumpe, fachgerecht und inklusive Anmeldung beim Netzbetreiber."}}, {"@type": "Offer", "itemOffered": {"@type": "Service", "name": "Anmeldung & VDE-Prüfung", "description": "Anmeldung anmeldepflichtiger Geräte sowie Prüfung nach DIN VDE 0100-600 mit Prüfprotokoll."}}, {"@type": "Offer", "itemOffered": {"@type": "Service", "name": "Zählerschrank & Unterverteilung", "description": "Komplette Sanierung oder neuer Zählerschrank: Wir übernehmen die alten Stromkreise, setzen einen neuen Zählerschrank und nutzen den alten bei Bedarf als Unterverteilung weiter. Natürlich auch ganz normale Unterverteilungen."}}, {"@type": "Offer", "itemOffered": {"@type": "Service", "name": "SLS & Überspannungsschutz", "description": "Nachrüstung von SLS-Schaltern und Überspannungsschutz, wie es die Technischen Anschlussbedingungen (TAB) der meisten Netzbetreiber vorschreiben."}}, {"@type": "Offer", "itemOffered": {"@type": "Service", "name": "Fehlersuche & Reparaturen", "description": "Strom weg, Sicherung fliegt raus oder eine Steckdose ist defekt? Wir finden den Fehler und reparieren ihn in Ihrem Haushalt."}}, {"@type": "Offer", "itemOffered": {"@type": "Service", "name": "Elektroinstallation", "description": "Klassische Elektroarbeiten im Alt- und Neubau: Steckdosen, Leitungen, Erweiterungen und mehr."}}]}}</script>
   <link rel="stylesheet" href="css/style.css">
   <link rel="icon" href="img/favicon.svg" type="image/svg+xml">
   <link rel="preload" href="fonts/poppins-latin-800-normal.woff2" as="font" type="font/woff2" crossorigin>

diff --git a/css/style.css b/css/style.css
@@ -84,3 +84,10 @@ h1,h2,h3{overflow-wrap:break-word}
 .gal{margin:0;background:var(--card);border:1px solid var(--line);border-radius:var(--radius);overflow:hidden}
 .gal img{width:100%;aspect-ratio:4/5;object-fit:cover;object-position:center 10%}
 .gal figcaption{padding:12px 14px;display:flex;flex-direction:column;font-size:.88rem}.gal figcaption span{color:var(--muted)}
+.narrow{max-width:860px}
+.faq{background:var(--card);border:1px solid var(--line);border-radius:12px;margin-bottom:12px;padding:0 22px}
+.faq summary{cursor:pointer;font-weight:600;padding:18px 0;list-style:none;display:flex;justify-content:space-between;gap:16px}
+.faq summary::-webkit-details-marker{display:none}
+.faq summary::after{content:"+";color:var(--orange);font-size:1.4rem;line-height:1}
+.faq[open] summary::after{content:"–"}
+.faq p{margin:0 0 18px;color:var(--muted)}
